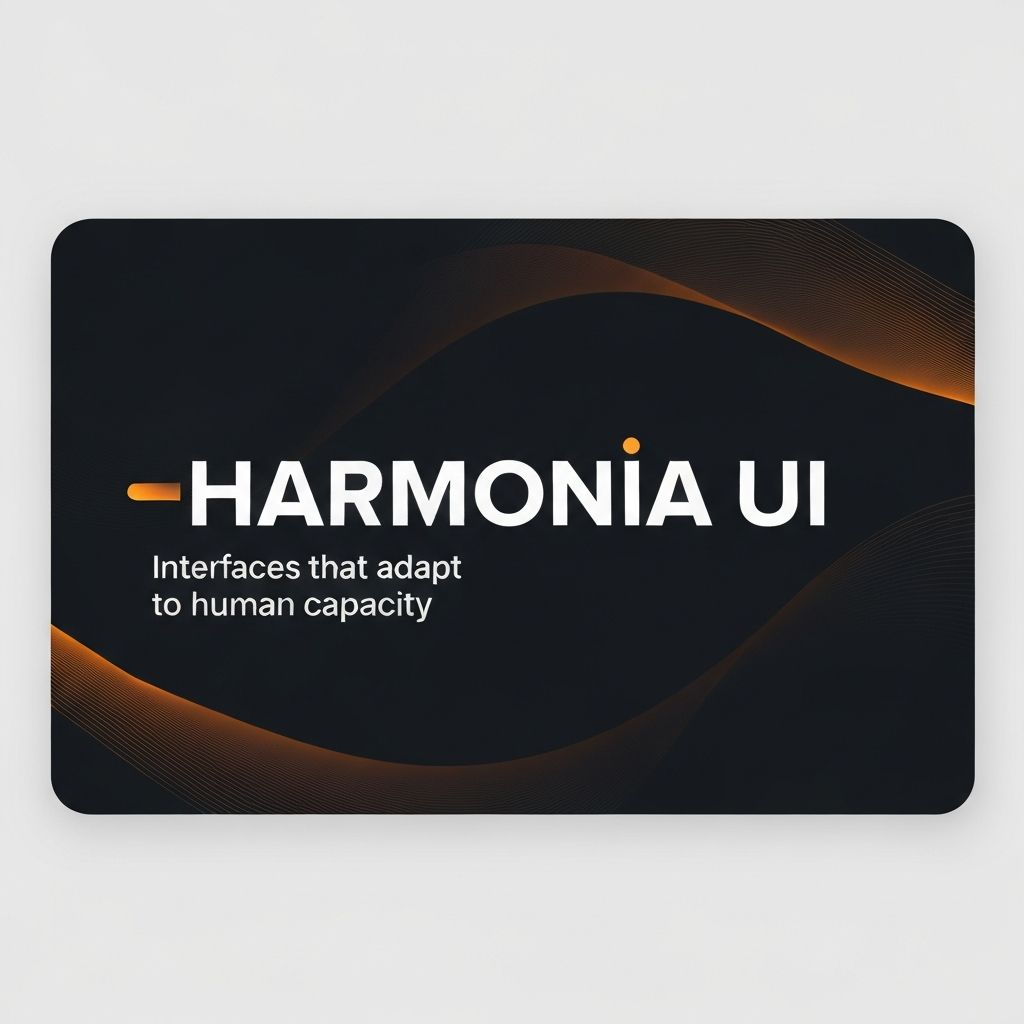
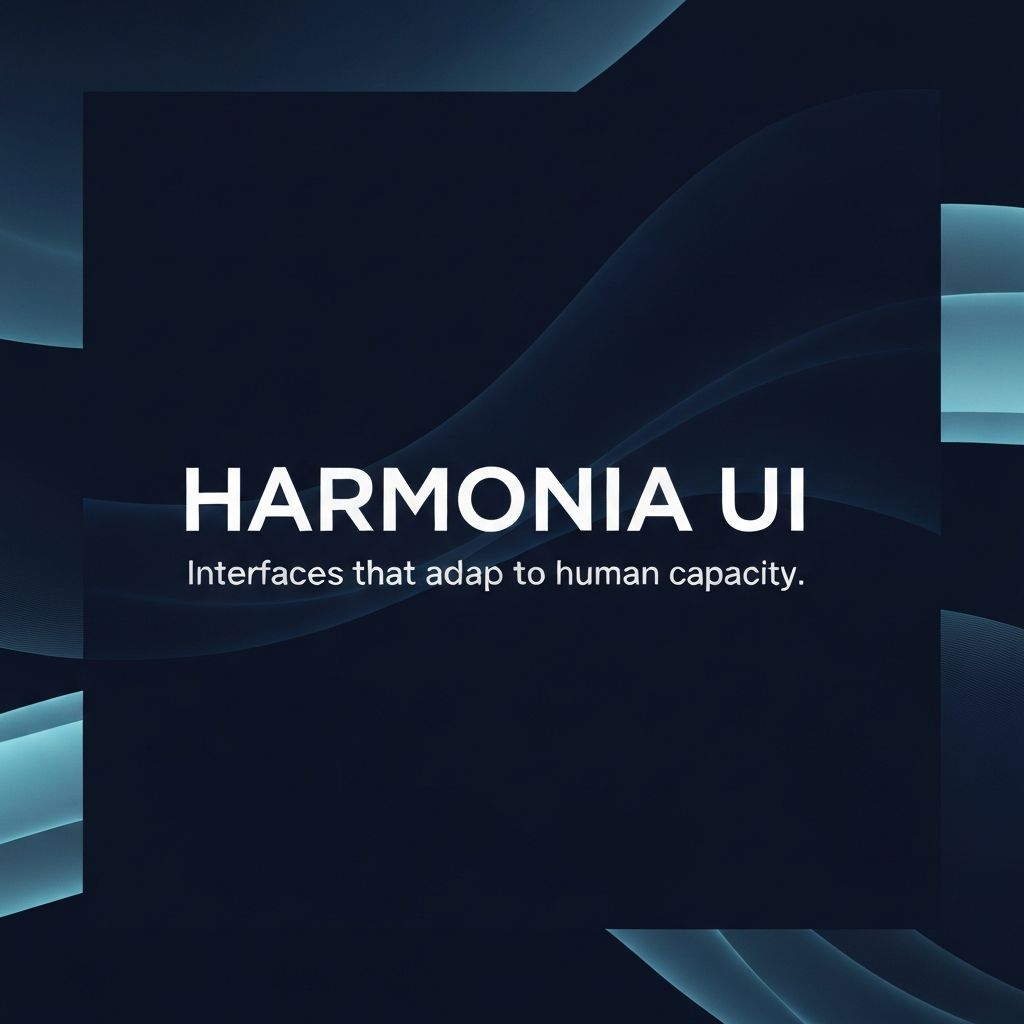
feat: introduce Harmonia theme for HomePage and Gachiakuta for convention page

diff --git a/app/globals.css b/app/globals.css
@@ -4,82 +4,153 @@
 @custom-variant dark (&:is(.dark *));
 
 /**
- * Light theme - Warm cream/parchment inspired
+ * Light theme - Harmonia Blue (Serene, balanced)
  * 
  * Color philosophy:
- * - Warm off-white background like aged paper
- * - Subtle warmth throughout to complement dark theme
- * - Same rust/copper accent for consistency
+ * - Soft sky blue background - peaceful, harmonious
+ * - Gentle azure tones reflecting balance and serenity
+ * - Calm, centered aesthetic embodying "Harmonia"
  */
 :root {
-  /* Warm cream background - like weathered parchment */
-  --background: oklch(0.97 0.015 75);
-  --foreground: oklch(0.18 0.02 50);
+  /* Soft sky blue background - serene, open */
+  --background: oklch(0.97 0.02 230);
+  --foreground: oklch(0.18 0.03 240);
   
-  /* Cards - slightly warmer, elevated */
-  --card: oklch(0.98 0.012 70);
-  --card-foreground: oklch(0.18 0.02 50);
+  /* Cards - slightly elevated, touched with blue */
+  --card: oklch(0.98 0.015 230);
+  --card-foreground: oklch(0.18 0.03 240);
   
-  /* Popovers - clean but warm */
-  --popover: oklch(0.99 0.01 70);
-  --popover-foreground: oklch(0.18 0.02 50);
+  /* Popovers - clean, airy */
+  --popover: oklch(0.99 0.01 230);
+  --popover-foreground: oklch(0.18 0.03 240);
   
-  /* Primary: Rust/copper - matching dark theme */
-  --primary: oklch(0.55 0.14 45);
-  --primary-foreground: oklch(0.98 0.01 70);
+  /* Primary: Harmonious azure - calm, trustworthy */
+  --primary: oklch(0.55 0.14 240);
+  --primary-foreground: oklch(0.98 0.01 230);
   
-  /* Secondary: Warm gray-beige */
-  --secondary: oklch(0.93 0.015 70);
-  --secondary-foreground: oklch(0.25 0.02 50);
+  /* Secondary: Soft blue-gray */
+  --secondary: oklch(0.93 0.02 230);
+  --secondary-foreground: oklch(0.25 0.03 240);
   
-  /* Muted: Soft warm gray */
-  --muted: oklch(0.94 0.012 70);
-  --muted-foreground: oklch(0.45 0.02 50);
+  /* Muted: Gentle blue-gray */
+  --muted: oklch(0.94 0.015 230);
+  --muted-foreground: oklch(0.45 0.03 240);
   
-  /* Accent: Earthy green - nature, growth */
-  --accent: oklch(0.55 0.15 145);
-  --accent-foreground: oklch(0.98 0.01 70);
+  /* Accent: Teal - balance between blue and green */
+  --accent: oklch(0.55 0.12 195);
+  --accent-foreground: oklch(0.98 0.01 230);
   
   /* Destructive */
   --destructive: oklch(0.55 0.2 25);
-  --destructive-foreground: oklch(0.98 0.01 70);
+  --destructive-foreground: oklch(0.98 0.01 230);
   
-  /* Borders: Warm, subtle separation */
-  --border: oklch(0.88 0.02 70);
-  --input: oklch(0.92 0.015 70);
-  --ring: oklch(0.55 0.14 45);
+  /* Borders: Subtle blue separation */
+  --border: oklch(0.88 0.025 230);
+  --input: oklch(0.92 0.02 230);
+  --ring: oklch(0.55 0.14 240);
   
-  /* Chart colors - warm palette */
-  --chart-1: oklch(0.55 0.14 45);
-  --chart-2: oklch(0.55 0.15 145);
-  --chart-3: oklch(0.5 0.1 200);
-  --chart-4: oklch(0.65 0.16 70);
-  --chart-5: oklch(0.5 0.15 300);
+  /* Chart colors - harmonious blue palette */
+  --chart-1: oklch(0.55 0.14 240);
+  --chart-2: oklch(0.55 0.12 195);
+  --chart-3: oklch(0.5 0.1 270);
+  --chart-4: oklch(0.65 0.12 210);
+  --chart-5: oklch(0.5 0.15 180);
   
   --radius: 0.625rem;
   
-  /* Sidebar - slightly cooler than main bg */
-  --sidebar: oklch(0.96 0.012 70);
-  --sidebar-foreground: oklch(0.18 0.02 50);
-  --sidebar-primary: oklch(0.55 0.14 45);
-  --sidebar-primary-foreground: oklch(0.98 0.01 70);
-  --sidebar-accent: oklch(0.93 0.015 70);
-  --sidebar-accent-foreground: oklch(0.25 0.02 50);
-  --sidebar-border: oklch(0.88 0.02 70);
-  --sidebar-ring: oklch(0.55 0.14 45);
+  /* Sidebar - slightly deeper blue */
+  --sidebar: oklch(0.96 0.02 235);
+  --sidebar-foreground: oklch(0.18 0.03 240);
+  --sidebar-primary: oklch(0.55 0.14 240);
+  --sidebar-primary-foreground: oklch(0.98 0.01 230);
+  --sidebar-accent: oklch(0.93 0.02 230);
+  --sidebar-accent-foreground: oklch(0.25 0.03 240);
+  --sidebar-border: oklch(0.88 0.025 230);
+  --sidebar-ring: oklch(0.55 0.14 240);
 }
 
 /**
- * Enhanced dark theme - Gachiakuta / Abyss inspired
+ * Dark theme - Harmonia Midnight Blue (Deep, serene)
+ *
+ * Color philosophy:
+ * - Deep midnight blue for contemplative depth
+ * - Calm azure accents reflecting harmony
+ * - Soft, balanced tones for restful dark mode
+ * - All OKLCH for perceptual uniformity
+ */
+.dark {
+  /* Midnight blue depths - deep, calming */
+  --background: oklch(0.12 0.03 250);
+  --foreground: oklch(0.92 0.02 230);
+
+  /* Cards - elevated midnight panels */
+  --card: oklch(0.16 0.035 250);
+  --card-foreground: oklch(0.92 0.02 230);
+
+  /* Popovers - slightly lighter depth */
+  --popover: oklch(0.18 0.04 248);
+  --popover-foreground: oklch(0.92 0.02 230);
+
+  /* Primary: Serene azure - calm, harmonious */
+  --primary: oklch(0.68 0.14 230);
+  --primary-foreground: oklch(0.12 0.03 250);
+
+  /* Secondary: Deep blue-gray */
+  --secondary: oklch(0.24 0.03 250);
+  --secondary-foreground: oklch(0.85 0.02 230);
+
+  /* Muted: Soft midnight elements */
+  --muted: oklch(0.22 0.025 250);
+  --muted-foreground: oklch(0.55 0.03 240);
+
+  /* Accent: Calm teal - balance, tranquility */
+  --accent: oklch(0.60 0.12 195);
+  --accent-foreground: oklch(0.12 0.03 250);
+
+  /* Destructive: Soft coral warning */
+  --destructive: oklch(0.55 0.18 25);
+  --destructive-foreground: oklch(0.95 0 0);
+
+  /* Borders: Subtle blue separation */
+  --border: oklch(0.28 0.035 250);
+  --input: oklch(0.2 0.03 250);
+  --ring: oklch(0.6 0.12 230);
+
+  /**
+   * Chart colors - Harmonia palette
+   * 1: Serene azure (primary)
+   * 2: Calm teal (balance)
+   * 3: Soft indigo (depth)
+   * 4: Light cyan (clarity)
+   * 5: Gentle violet (serenity)
+   */
+  --chart-1: oklch(0.68 0.14 230);
+  --chart-2: oklch(0.60 0.12 195);
+  --chart-3: oklch(0.55 0.12 270);
+  --chart-4: oklch(0.70 0.10 210);
+  --chart-5: oklch(0.52 0.14 290);
+
+  /* Sidebar - deeper midnight */
+  --sidebar: oklch(0.14 0.035 252);
+  --sidebar-foreground: oklch(0.88 0.02 230);
+  --sidebar-primary: oklch(0.68 0.14 230);
+  --sidebar-primary-foreground: oklch(0.12 0.03 250);
+  --sidebar-accent: oklch(0.22 0.03 250);
+  --sidebar-accent-foreground: oklch(0.88 0.02 230);
+  --sidebar-border: oklch(0.26 0.035 250);
+  --sidebar-ring: oklch(0.6 0.12 230);
+}
+
+/**
+ * Gachiakuta theme - Industrial Abyss (for convention page)
  *
  * Color philosophy:
  * - Deep, industrial blacks for the "depths" of the Abyss
  * - Rust/copper accent (primary) representing salvaged metal
  * - Toxic green/yellow for danger and energy
  * - Desaturated teals for cool counterpoints
- * - All OKLCH for perceptual uniformity
  */
-.dark {
+.theme-gachiakuta {
   /* Abyss depths - very dark with slight warm undertone */
   --background: oklch(0.11 0.01 50);
   --foreground: oklch(0.92 0.01 80);
@@ -117,14 +188,7 @@
   --input: oklch(0.2 0.015 50);
   --ring: oklch(0.6 0.14 45);
 
-  /**
-   * Chart colors - Gachiakuta palette
-   * 1: Rust/copper (primary salvage)
-   * 2: Toxic green (energy, danger)
-   * 3: Industrial teal (cool tech)
-   * 4: Warning amber (caution)
-   * 5: Deep purple (mystery, the unknown)
-   */
+  /* Chart colors - Gachiakuta palette */
   --chart-1: oklch(0.68 0.16 45);
   --chart-2: oklch(0.65 0.2 135);
   --chart-3: oklch(0.58 0.12 195);

diff --git a/app/convention/page.tsx b/app/convention/page.tsx
@@ -32,7 +32,7 @@ import {
 
 export default function ConventionPage() {
   return (
-    <main className="min-h-screen bg-background text-foreground relative overflow-hidden">
+    <main className="min-h-screen bg-background text-foreground relative overflow-hidden theme-gachiakuta">
       {/* Background decorative elements - positioned absolutely */}
       <div className="fixed inset-0 pointer-events-none overflow-hidden" aria-hidden="true">
         {/* Top left debris cluster */}
